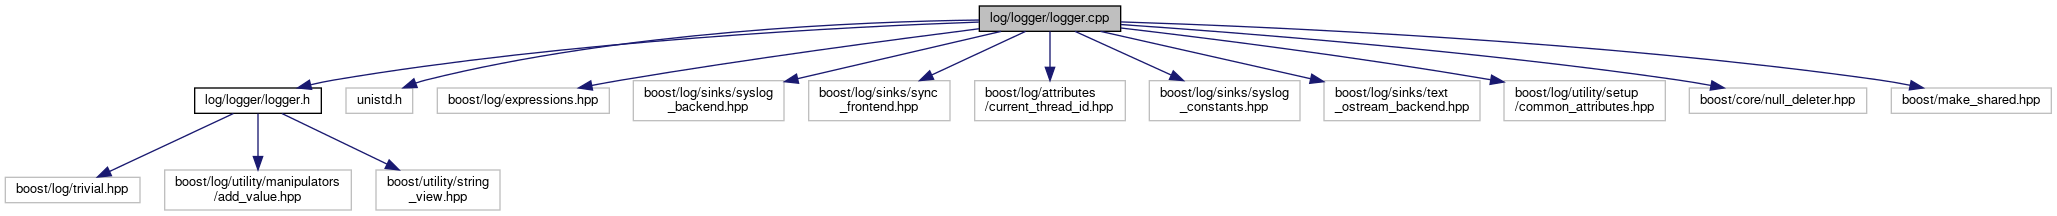
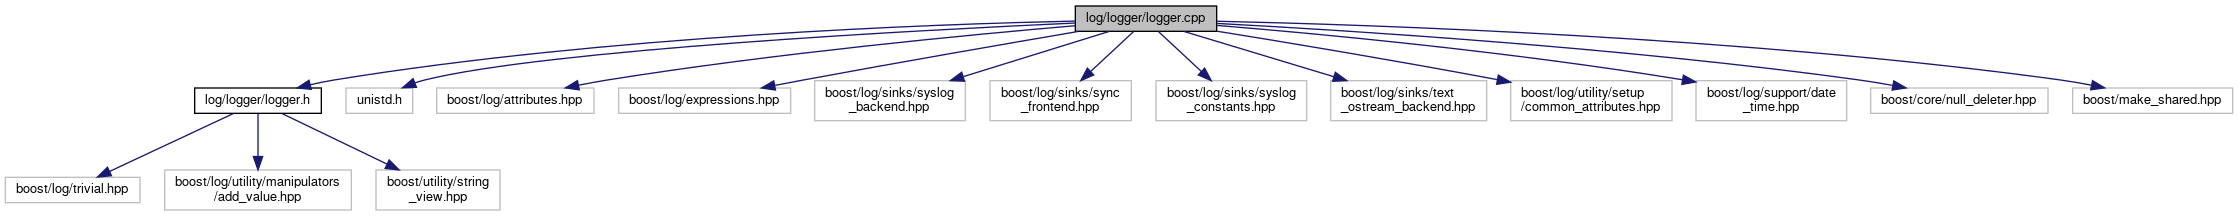
Auto commit

diff --git a/logger_8cpp.html b/logger_8cpp.html
@@ -73,13 +73,14 @@ $(function() {
 <div class="contents">
 <div class="textblock"><code>#include &lt;<a class="el" href="logger_8h_source.html">log/logger/logger.h</a>&gt;</code><br />
 <code>#include &lt;unistd.h&gt;</code><br />
+<code>#include &lt;boost/log/attributes.hpp&gt;</code><br />
 <code>#include &lt;boost/log/expressions.hpp&gt;</code><br />
 <code>#include &lt;boost/log/sinks/syslog_backend.hpp&gt;</code><br />
 <code>#include &lt;boost/log/sinks/sync_frontend.hpp&gt;</code><br />
-<code>#include &lt;boost/log/attributes/current_thread_id.hpp&gt;</code><br />
 <code>#include &lt;boost/log/sinks/syslog_constants.hpp&gt;</code><br />
 <code>#include &lt;boost/log/sinks/text_ostream_backend.hpp&gt;</code><br />
 <code>#include &lt;boost/log/utility/setup/common_attributes.hpp&gt;</code><br />
+<code>#include &lt;boost/log/support/date_time.hpp&gt;</code><br />
 <code>#include &lt;boost/core/null_deleter.hpp&gt;</code><br />
 <code>#include &lt;boost/make_shared.hpp&gt;</code><br />
 </div><div class="textblock"><div class="dynheader">
@@ -87,18 +88,19 @@ $(function() {
 <div class="dyncontent">
 <div class="center"><img src="logger_8cpp__incl.png" border="0" usemap="#alog_2logger_2logger_8cpp" alt=""/></div>
 <map name="alog_2logger_2logger_8cpp" id="alog_2logger_2logger_8cpp">
-<area shape="rect" title=" " alt="" coords="979,5,1121,32"/>
+<area shape="rect" title=" " alt="" coords="1075,5,1217,32"/>
 <area shape="rect" href="logger_8h.html" title=" " alt="" coords="195,87,321,114"/>
 <area shape="rect" title=" " alt="" coords="346,87,413,114"/>
-<area shape="rect" title=" " alt="" coords="437,87,609,114"/>
-<area shape="rect" title=" " alt="" coords="633,80,784,121"/>
-<area shape="rect" title=" " alt="" coords="809,80,950,121"/>
-<area shape="rect" title=" " alt="" coords="975,80,1125,121"/>
-<area shape="rect" title=" " alt="" coords="1149,80,1300,121"/>
-<area shape="rect" title=" " alt="" coords="1324,80,1480,121"/>
-<area shape="rect" title=" " alt="" coords="1504,80,1665,121"/>
-<area shape="rect" title=" " alt="" coords="1689,87,1867,114"/>
-<area shape="rect" title=" " alt="" coords="1891,87,2051,114"/>
+<area shape="rect" title=" " alt="" coords="437,87,594,114"/>
+<area shape="rect" title=" " alt="" coords="619,87,791,114"/>
+<area shape="rect" title=" " alt="" coords="815,80,965,121"/>
+<area shape="rect" title=" " alt="" coords="990,80,1131,121"/>
+<area shape="rect" title=" " alt="" coords="1156,80,1307,121"/>
+<area shape="rect" title=" " alt="" coords="1331,80,1487,121"/>
+<area shape="rect" title=" " alt="" coords="1511,80,1672,121"/>
+<area shape="rect" title=" " alt="" coords="1696,80,1847,121"/>
+<area shape="rect" title=" " alt="" coords="1871,87,2048,114"/>
+<area shape="rect" title=" " alt="" coords="2073,87,2233,114"/>
 <area shape="rect" title=" " alt="" coords="5,177,140,203"/>
 <area shape="rect" title=" " alt="" coords="165,169,351,211"/>
 <area shape="rect" title=" " alt="" coords="376,169,500,211"/>
